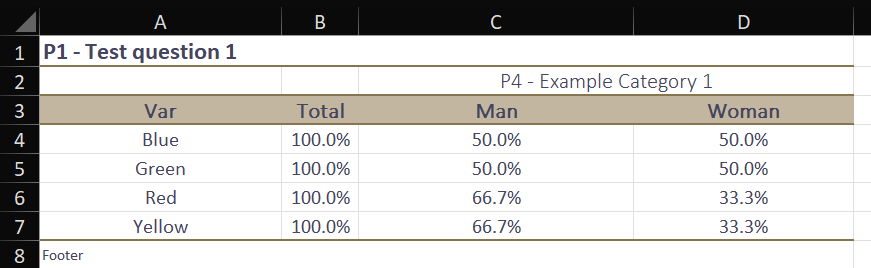
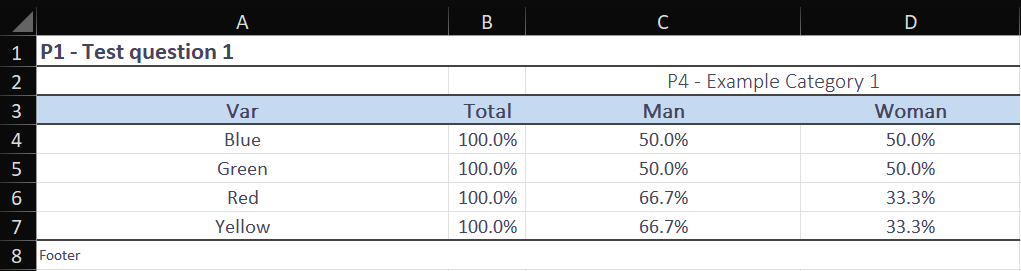
💎style: Adjustment of default table styles.

Changed region(s): [[0.0, 0.0299, 1.0, 1.0], [0.62, 0.0597, 0.651, 0.0896], [0.155, 0.0597, 0.186, 0.0896]]

diff --git a/settings/config.py b/settings/config.py
@@ -15,45 +15,45 @@ class JsonFile:
                     "Header": {
                         "Alignment": {"horizontal": 'left', "vertical": 'center'
                                       },
-                        "Font": {"name": "Gotham Book", "size": 12, "bold": True,
+                        "Font": {"name": "Calibri", "size": 12, "bold": True,
                                  "color": "45455d"
                                  },
-                        "Border": {"border_style": 'medium', "color": '86754d'
+                        "Border": {"border_style": 'medium', "color": '444444'
                                    }
                         },
                     "Sub_Header": {
                         "Alignment": {"horizontal": 'center', "vertical": 'center'
                                       },
-                        "Font": {"name": "Gotham Light", "size": 11, "bold": False,
+                        "Font": {"name": "Calibri Light", "size": 11, "bold": False,
                                  "color": "45455d"
                                  }
                         },
                     "Var_Header": {
                         "Alignment": {"horizontal": 'center', "vertical": 'center'
                                       },
-                        "Font": {"name": "Gotham Light", "size": 11, "bold": True,
+                        "Font": {"name": "Calibri Light", "size": 11, "bold": True,
                                  "color": "45455d"
                                  },
-                        "Border": {"border_style": 'medium', "color": '86754d'
+                        "Border": {"border_style": 'medium', "color": '444444'
                                    },
-                        "PatternFill": {"start_color": "c3b6a1",
-                                        "end_color": "c3b6a1",
+                        "PatternFill": {"start_color": "C5D9F1",
+                                        "end_color": "C5D9F1",
                                         "fill_type": "solid"}
                         },
                     "Body": {
-                            "Font": {"color": "45455d", "name": "Gotham Medium",
+                            "Font": {"color": "45455d", "name": "Calibri",
                                      "size": 10},
                             "Alignment": {"horizontal": 'center',
                                           "vertical": 'center'}
                             },
                     "Footer": {
                         "Font": {"color": "45455d",
-                                 "name": "Gotham Extra Light",
+                                 "name": "Calibri",
                                  "size": 8},
                         "Alignment": {"horizontal": 'left',
                                       "vertical": 'center'},
                         "Border": {"border_style": 'medium',
-                                   "color": '86754d'}
+                                   "color": '444444'}
                         }
                     }
                 with open(self.__path, "w") as file:
